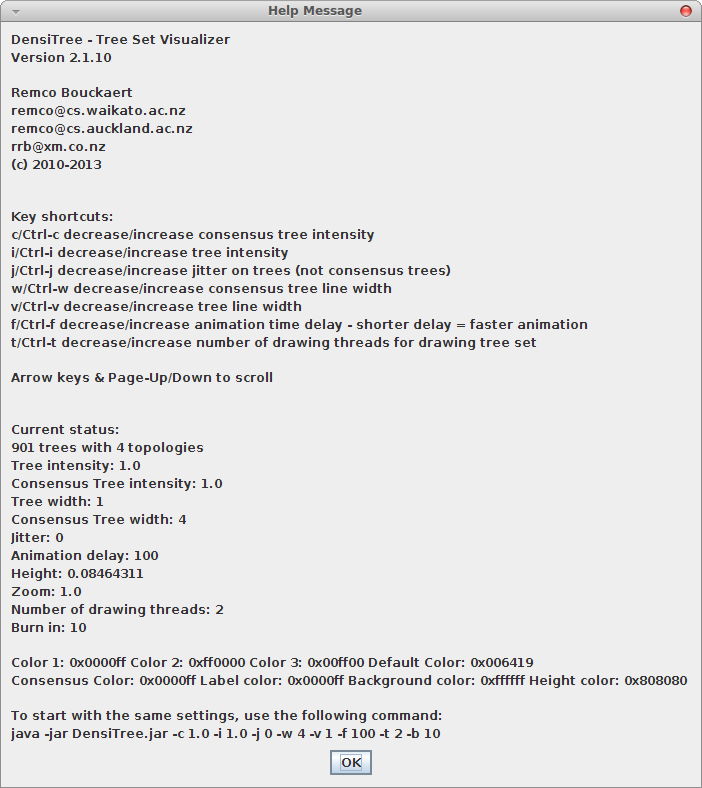
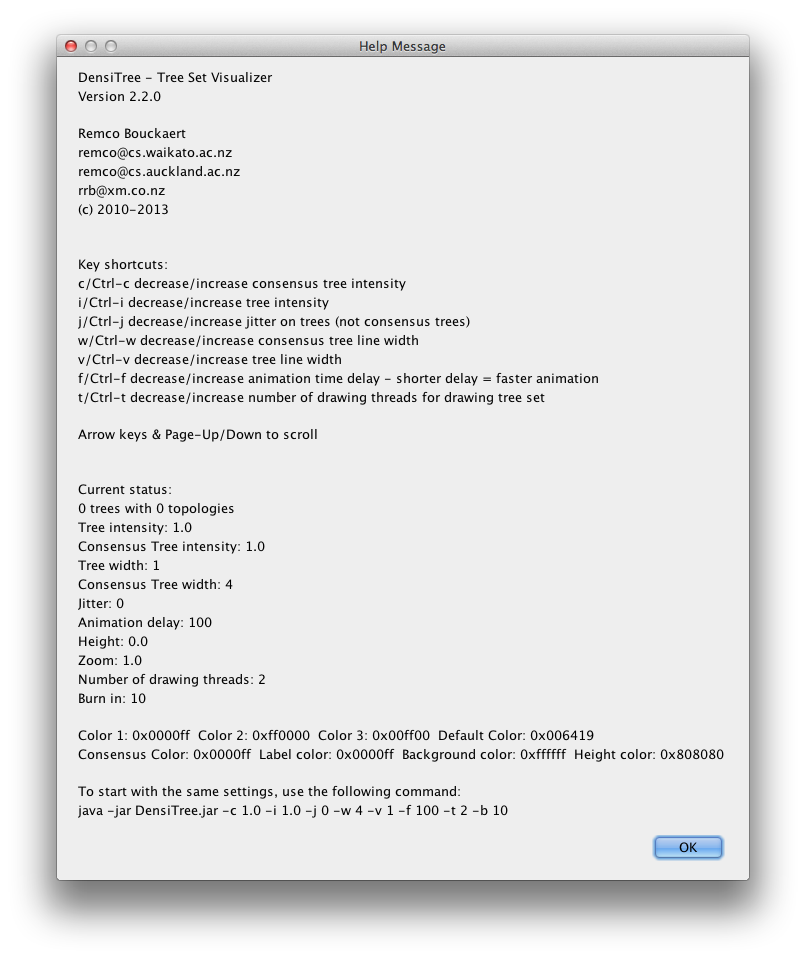
version 2.2.0

Changed region(s): [[0.0, 0.0, 1.0, 1.0]]

diff --git a/doc/DensiTreeManual.tex b/doc/DensiTreeManual.tex
@@ -4,11 +4,12 @@
 \def\DensiTree{DensiTree}
 \def\webdir{/home/remco/research/DensiTree/web}
 
-\title{\DensiTree\ Manual: \\{Making sense of sets of trees}\\Version 2.1}
+\title{\DensiTree\ Manual: \\{Making sense of sets of trees}\\Version 2.2}
 \author{Remco Bouckaert\\
-\url{remco@cs.auckland.ac.nz}\\
-\url{remco@cs.waikato.ac.nz}\\
-\url{rrb@xm.co.nz}}
+\url{r.bouckaert@auckland.ac.nz}\\
+%\url{remco@cs.waikato.ac.nz}\\
+%\url{rrb@xm.co.nz}
+}
 
 \setcounter{tocdepth}{1}
 \begin{document}
@@ -98,6 +99,20 @@ of trees and/or consensus trees. Alternatively, one can {\em browse} through the
 tree topologies.
 
 \subsection{What is new \label{ssec.new}}
+From Version 2.1 to 2.2, the following changes were made:
+
+o support for images as labels
+
+o more robust geography data parsing
+
+o allow geography draw lines from the left
+
+o better integration with summary\_tree
+
+o support for .densitree configuration file with default settings
+
+o many small bugs
+
 From Version 2.01 to 2.1.10, the following changes were made:
 
 o layout improved
@@ -139,12 +154,10 @@ o Label rotatable when the root is at top + more sensible label placement.
 \newpage
 \section{Getting started\label{sec.start}}
 
-To run \DensiTree, you need a Java 1.6 runtime installed 
-(for instance available from \url{http://java.sun.com}) and the \DensiTree\ binary,
-which can be downloaded from \url{http://www.cs.auckland.ac.nz/~remco/DensiTree.jar}.
+To run \DensiTree, you need a Java at least version 6 runtime installed (but version 7 or higher is faster). This is available for instance available from \url{http://java.com}). You also need the \DensiTree\ binary,
+which can be downloaded from \url{http://www.cs.auckland.ac.nz/~remco/DensiTree}.
 
-You can run \DensiTree\ by calling {\tt java -jar DensiTree.jar} from the command line.
-Make sure that the file DensiTree.jar is in the directory you start at.
+You can run \DensiTree\ by calling {\tt java -jar DensiTree.jar} from the command line. Make sure that the file DensiTree.jar is in the directory you start at.
 
 Sorry, it's not more complex than this.
 
@@ -963,9 +976,10 @@ for the gallery.
 
 \bibliographystyle{plain}
 \begin{thebibliography}{1}
-\bibitem{BEAST}BEAST: Bayesian Evolutionary Analysis Sampling Trees.
-           Alexei J. Drummond and Andrew Rambaut
-\url{http://beast.bio.ed.ac.uk/}
+\bibitem{BEAST}
+Bouckaert RR, Heled J, Kuehnert D, Vaughan TG, Wu C-H, Xie D, Suchard MA,
+Rambaut A, Drummond AJ (2014) BEAST 2: A software platform for Bayesian
+evolutionary analysis. PLoS Computational Biology 10(4): e1003537
 \bibitem{FigTree}FigTree. Andrew Rambaut
 \url{http://tree.bio.ed.ac.uk/software/figtree/}
 \bibitem{SplitsTree}D. H. Huson and D. Bryant, Application of Phylogenetic Networks in Evolutionary Studies, Mol. Biol. Evol., 23(2):254-267, 2006.

diff --git a/src/viz/DensiTree.java b/src/viz/DensiTree.java
@@ -92,12 +92,16 @@ import viz.util.Util;
 
 public class DensiTree extends JPanel implements ComponentListener {
 	//final static String VERSION = "2.1.5 release candidate";
-	final static String VERSION = "2.1.11";
+	final static String VERSION = "2.2.0";
 	final static String FRAME_TITLE = "DensiTree - Tree Set Visualizer";
-	final static String CITATION = "Remco R. Bouckaert\n"+
-		"DensiTree: making sense of sets of phylogenetic trees\n"+
-		"Bioinformatics (2010) 26 (10): 1372-1373.\n"+
-		"doi: 10.1093/bioinformatics/btq110";
+//	final static String CITATION = "Remco R. Bouckaert\n"+
+//		"DensiTree: making sense of sets of phylogenetic trees\n"+
+//		"Bioinformatics (2010) 26 (10): 1372-1373.\n"+
+//		"doi: 10.1093/bioinformatics/btq110";
+	final static String CITATION = "Remco R. Bouckaert & Joseph Heled\n"+
+			"DensiTree 2: Seeing Trees Through the Forest\n"+
+			"PeerJ PrePrints 2:eXXXv1\n" +
+			" http://dx.doi.org/10.7287/peerj.preprints.XXXv1.\n";
 	static int instances = 1;
 	
 	/** flag for testing summary tree optimisation **/
